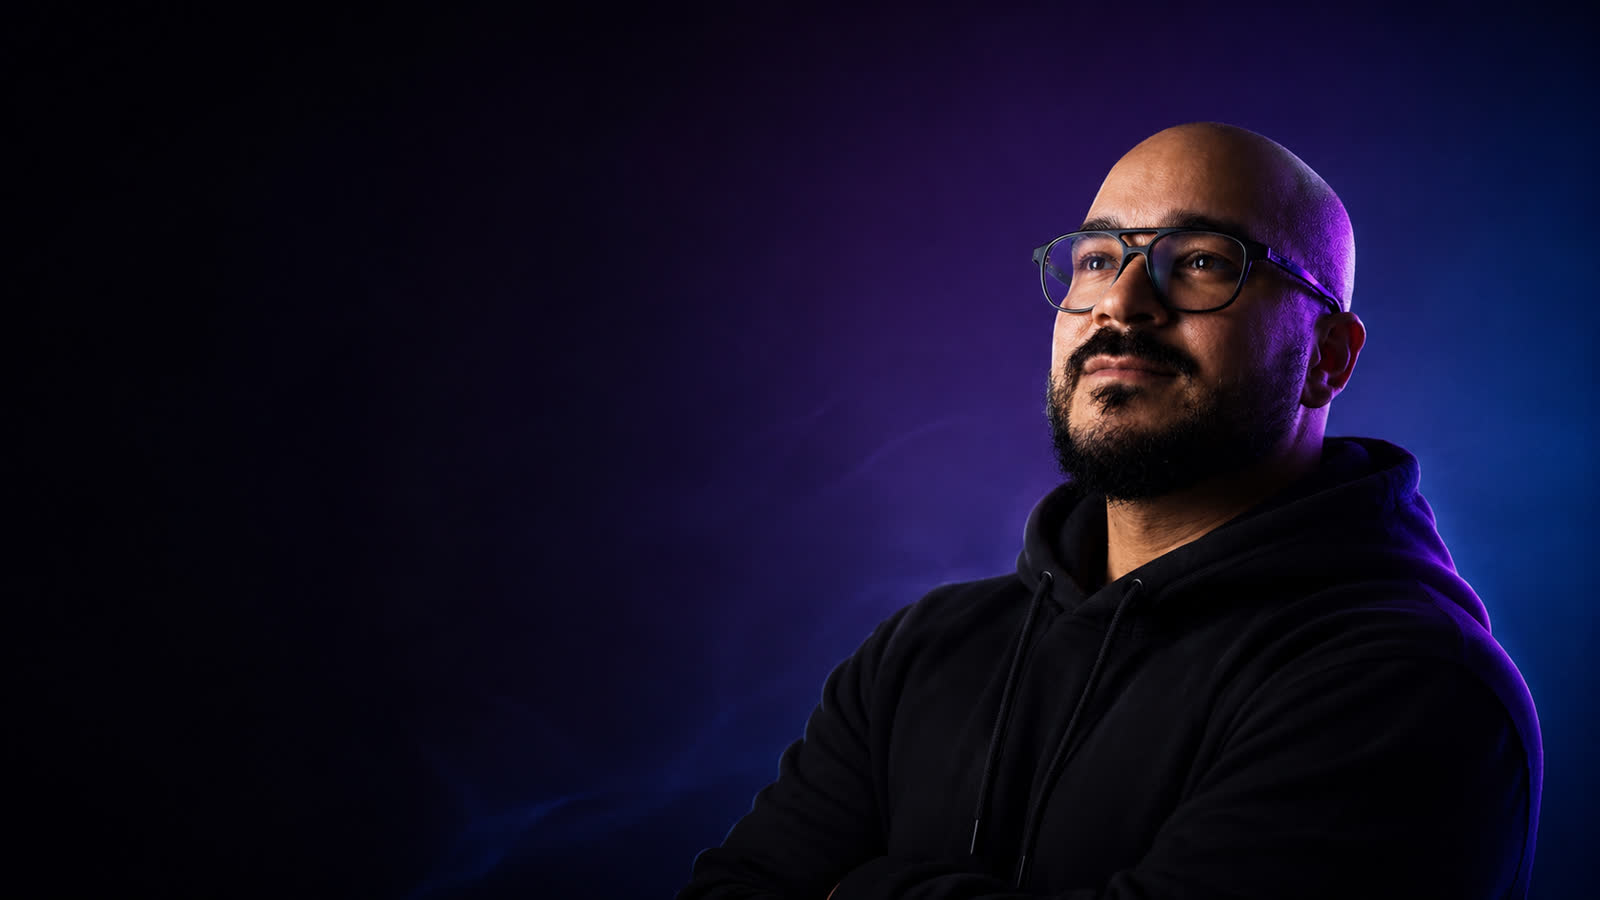
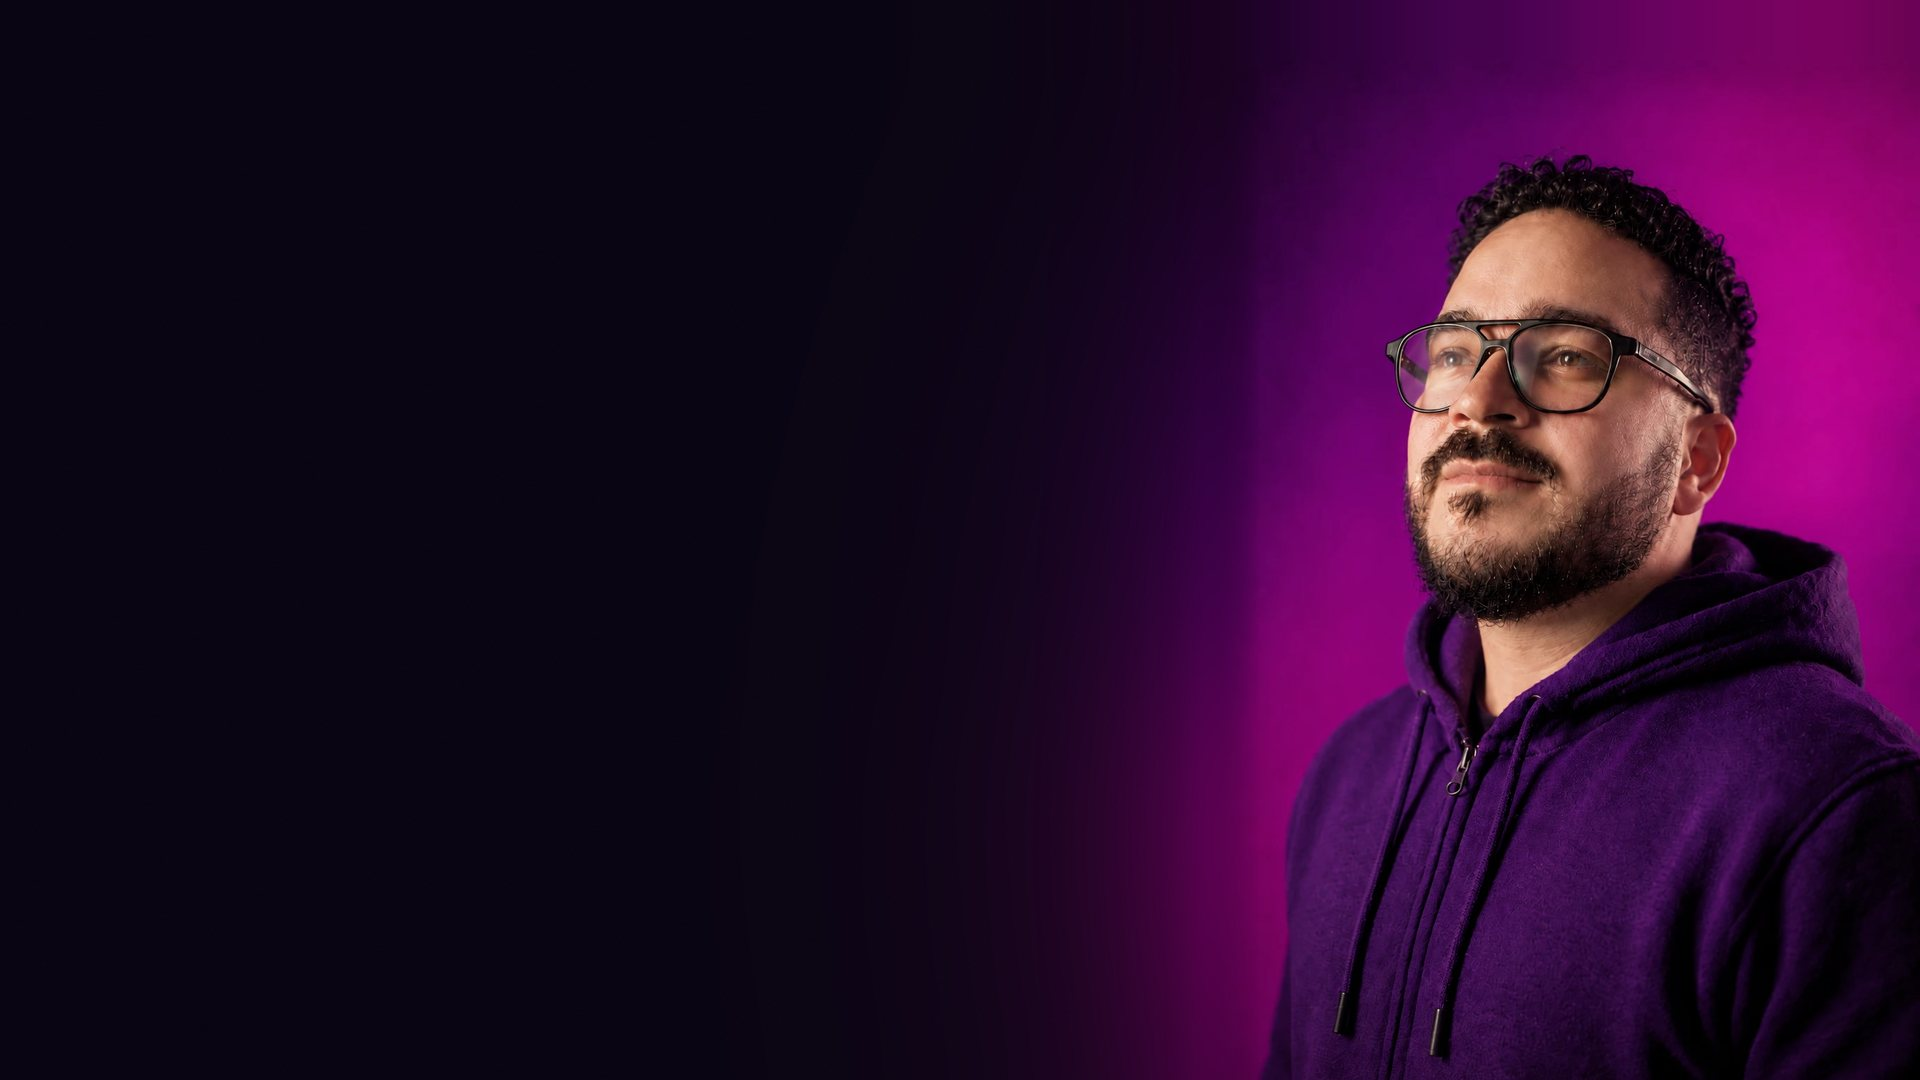
Swap hero portrait for the new magenta studio photo (#29)
New portrait (purple hoodie on magenta backdrop) composited to 1920x1080:
photo flush right, backdrop light falloff extrapolated into the dark left
side so the text column stays legible. Same composition as before, so the
desktop/mobile crop rules on .hero-bg::before work unchanged. Cache-busted
the CSS url so returning visitors get the new image.

diff --git a/index.html b/index.html
@@ -257,7 +257,7 @@ button { font: inherit; cursor: pointer; border: none; background: none; color: 
   content:'';
   position: absolute;
   inset: 0;
-  background-image: url('/hero.jpg');
+  background-image: url('/hero.jpg?v=20261123');
   background-size: cover;
   background-position: center right;
   background-repeat: no-repeat;
